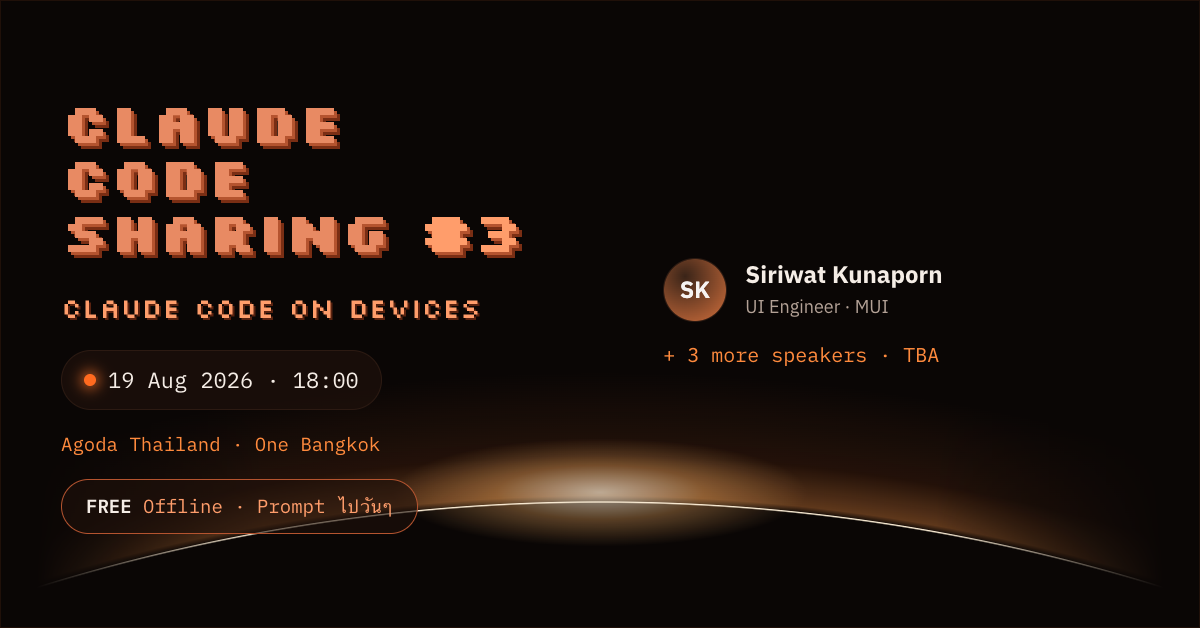
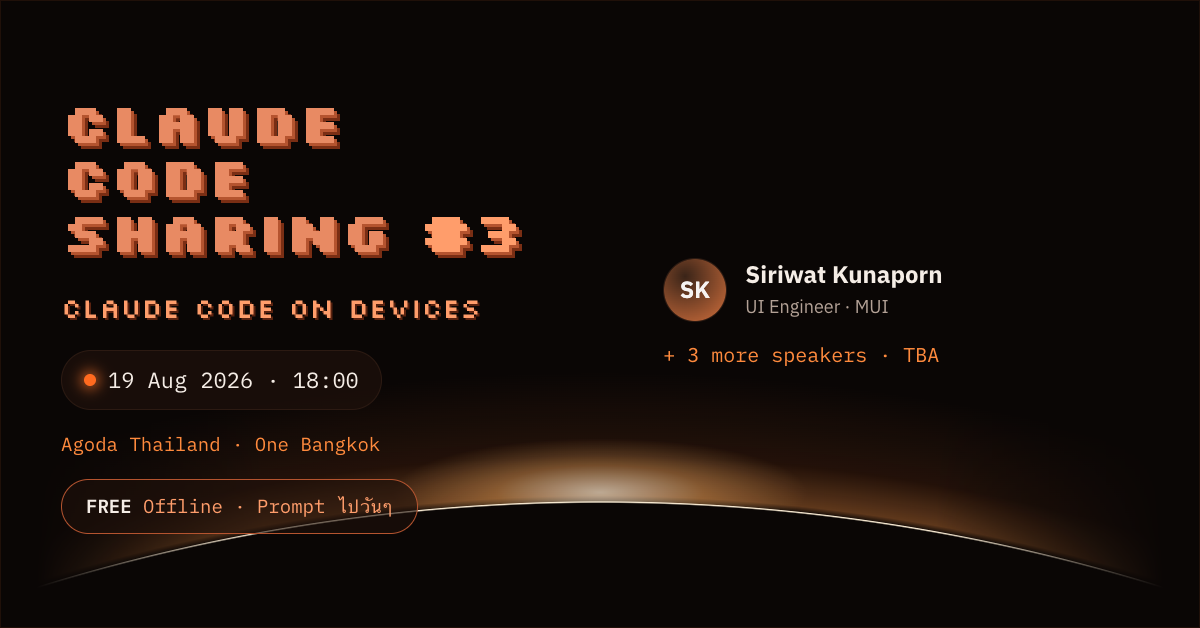
Hero: raise title/chips ~20%, move register+organizer below the curve; clip sunrise bloom at horizon (hero + posters)

Changed region(s): [[0.37, 0.7866, 0.6475, 0.8774]]

diff --git a/meetups/claude-code-3/styles.css b/meetups/claude-code-3/styles.css
@@ -26,8 +26,9 @@ a{color:inherit;text-decoration:none}
 .top-free strong{color:var(--flame);font-weight:600}
 
 /* hero */
-.hero{position:relative;min-height:96svh;display:flex;align-items:center;justify-content:center;overflow:hidden;padding:5rem var(--pad) 4rem;text-align:center}
-.hero-in{position:relative;z-index:2;max-width:760px;display:flex;flex-direction:column;align-items:center;gap:1.15rem}
+.hero{position:relative;min-height:100svh;overflow:hidden;padding:0 var(--pad);text-align:center}
+.hero-top{position:absolute;left:0;right:0;top:0;height:60%;z-index:2;display:flex;flex-direction:column;align-items:center;justify-content:center;gap:1.1rem;padding:0 var(--pad);text-align:center}
+.hero-below{position:absolute;left:0;right:0;top:72%;z-index:2;display:flex;flex-direction:column;align-items:center;gap:1rem;padding:0 var(--pad);text-align:center}
 .p-title{font-family:"Silkscreen",monospace;font-weight:700;font-size:clamp(2rem,7vw,4.3rem);line-height:.98;white-space:nowrap;color:var(--coral);text-shadow:2px 2px 0 var(--coral-deep),4px 4px 0 var(--coral-shadow),6px 7px 16px rgba(0,0,0,.55)}
 .p-title .hash{font-style:normal;color:var(--flame)}
 .tagline{font-family:"Silkscreen",monospace;font-size:clamp(1rem,3.2vw,1.7rem);letter-spacing:.04em;color:var(--flame);text-shadow:2px 2px 0 rgba(122,46,20,.7)}
@@ -51,7 +52,7 @@ a{color:inherit;text-decoration:none}
 .orga-line img{width:34px;height:34px}
 .horizon{--orbit-r:1900px;--line-y:66%;position:absolute;inset:0;z-index:1;pointer-events:none;overflow:hidden;-webkit-mask-image:linear-gradient(90deg,transparent 3%,#000 24%,#000 76%,transparent 97%);mask-image:linear-gradient(90deg,transparent 3%,#000 24%,#000 76%,transparent 97%)}
 /* atmosphere glow ring hugging the limb + sunrise bloom at centre */
-.horizon::before{content:"";position:absolute;inset:0;background:radial-gradient(ellipse 26% 13% at 50% calc(var(--line-y) - 1.5%),rgba(255,246,228,.60),rgba(255,182,104,.32) 36%,transparent 72%),radial-gradient(var(--orbit-r) var(--orbit-r) at 50% calc(var(--line-y) + var(--orbit-r)),transparent calc(var(--orbit-r) - 1px),rgba(255,150,70,.34) calc(var(--orbit-r) + 6px),rgba(255,116,42,.10) calc(var(--orbit-r) + 46px),transparent calc(var(--orbit-r) + 130px))}
+.horizon::before{content:"";position:absolute;inset:0;background:radial-gradient(var(--orbit-r) var(--orbit-r) at 50% calc(var(--line-y) + var(--orbit-r)),var(--void) calc(var(--orbit-r) - .5px),transparent var(--orbit-r)),radial-gradient(ellipse 26% 13% at 50% calc(var(--line-y) - 1.5%),rgba(255,246,228,.60),rgba(255,182,104,.32) 36%,transparent 72%),radial-gradient(var(--orbit-r) var(--orbit-r) at 50% calc(var(--line-y) + var(--orbit-r)),transparent calc(var(--orbit-r) - 1px),rgba(255,150,70,.34) calc(var(--orbit-r) + 6px),rgba(255,116,42,.10) calc(var(--orbit-r) + 46px),transparent calc(var(--orbit-r) + 130px))}
 /* the thin bright rim */
 .horizon::after{content:"";position:absolute;inset:0;background:radial-gradient(var(--orbit-r) var(--orbit-r) at 50% calc(var(--line-y) + var(--orbit-r)),transparent calc(var(--orbit-r) - 1.6px),rgba(255,240,216,.95) calc(var(--orbit-r) - .3px),rgba(255,240,216,.95) var(--orbit-r),transparent calc(var(--orbit-r) + .9px))}
 
@@ -115,7 +116,7 @@ a{color:inherit;text-decoration:none}
 .poster{position:absolute;top:0;left:0;transform-origin:top left;overflow:hidden;background:var(--void);color:var(--bone);box-shadow:0 24px 60px -20px rgba(0,0,0,.8);border:1px solid #201009}
 .poster{--orbit-r:1900px;--line-y:66%}
 .poster .stagelight,.poster .light{-webkit-mask-image:linear-gradient(90deg,transparent 3%,#000 22%,#000 78%,transparent 97%);mask-image:linear-gradient(90deg,transparent 3%,#000 22%,#000 78%,transparent 97%)}
-.poster .stagelight{position:absolute;inset:0;pointer-events:none;background:radial-gradient(ellipse 24% 12% at 50% calc(var(--line-y) - 1.5%),rgba(255,246,228,.60),rgba(255,182,104,.32) 36%,transparent 72%),radial-gradient(var(--orbit-r) var(--orbit-r) at 50% calc(var(--line-y) + var(--orbit-r)),transparent calc(var(--orbit-r) - 1px),rgba(255,150,70,.34) calc(var(--orbit-r) + 6px),rgba(255,116,42,.10) calc(var(--orbit-r) + 46px),transparent calc(var(--orbit-r) + 130px))}
+.poster .stagelight{position:absolute;inset:0;pointer-events:none;background:radial-gradient(var(--orbit-r) var(--orbit-r) at 50% calc(var(--line-y) + var(--orbit-r)),var(--void) calc(var(--orbit-r) - .5px),transparent var(--orbit-r)),radial-gradient(ellipse 24% 12% at 50% calc(var(--line-y) - 1.5%),rgba(255,246,228,.60),rgba(255,182,104,.32) 36%,transparent 72%),radial-gradient(var(--orbit-r) var(--orbit-r) at 50% calc(var(--line-y) + var(--orbit-r)),transparent calc(var(--orbit-r) - 1px),rgba(255,150,70,.34) calc(var(--orbit-r) + 6px),rgba(255,116,42,.10) calc(var(--orbit-r) + 46px),transparent calc(var(--orbit-r) + 130px))}
 .poster .light{position:absolute;inset:0;background:radial-gradient(var(--orbit-r) var(--orbit-r) at 50% calc(var(--line-y) + var(--orbit-r)),transparent calc(var(--orbit-r) - 1.6px),rgba(255,240,216,.95) calc(var(--orbit-r) - .3px),rgba(255,240,216,.95) var(--orbit-r),transparent calc(var(--orbit-r) + .9px))}
 .poster .pcontent{position:relative;z-index:2;height:100%;display:flex;flex-direction:column;padding:56px}
 .pk-eyebrow{font-family:"IBM Plex Mono",monospace;letter-spacing:.28em;font-size:19px;color:var(--coral)}

diff --git a/meetups/claude-code-3/index.html b/meetups/claude-code-3/index.html
@@ -26,13 +26,15 @@
 <main id="main">
   <!-- HERO -->
   <section class="hero">
-    <div class="hero-in">
+    <div class="hero-top">
       <h1 class="p-title">CLAUDE CODE<br>SHARING <span class="hash">#3</span></h1>
       <p class="tagline">Claude Code on Devices</p>
       <div class="chips">
         <span class="chip"><span class="dot"></span>19 Aug 2026 · 18:00–21:00</span>
         <span class="chip">Agoda Thailand · One Bangkok</span>
       </div>
+    </div>
+    <div class="hero-below">
       <div class="cta-row">
         <a class="btn btn-ghost" aria-disabled="true" href="#">Register · TBA</a>
       </div>
